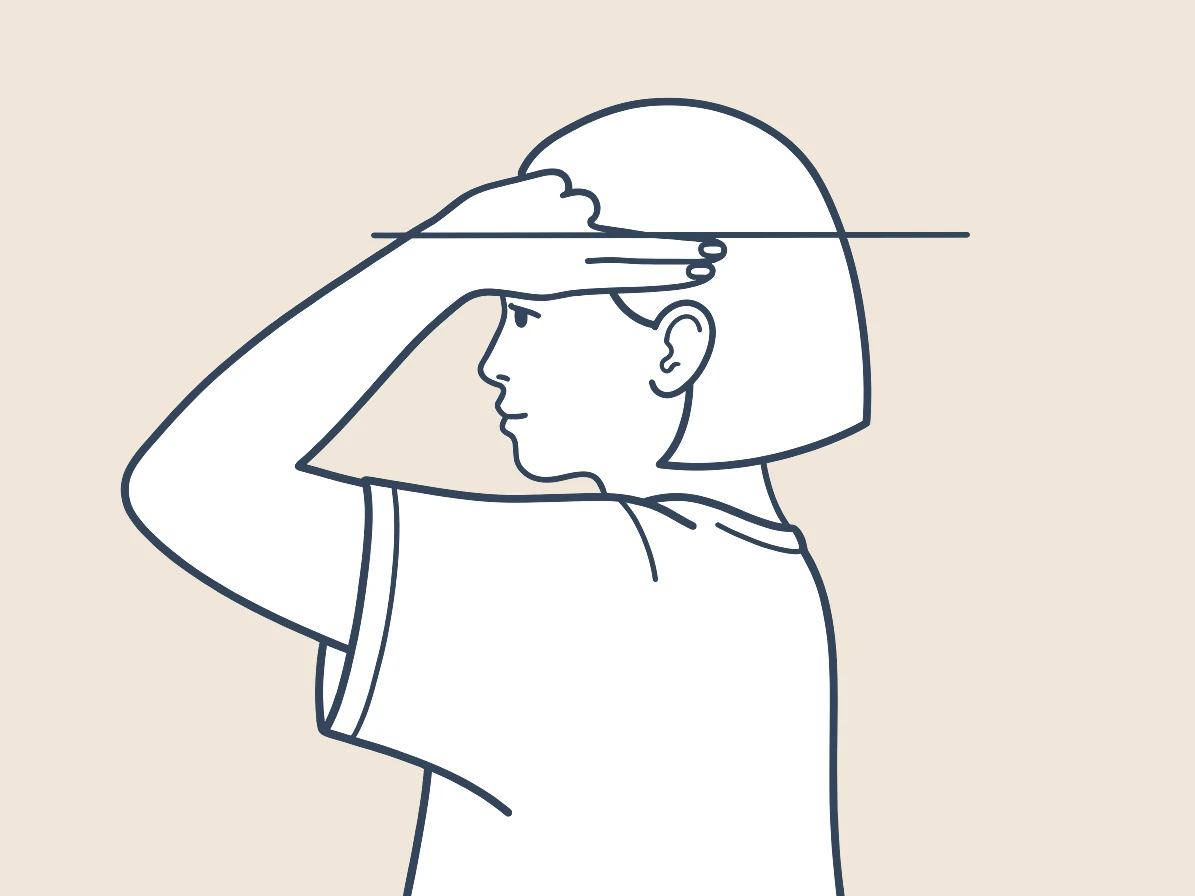
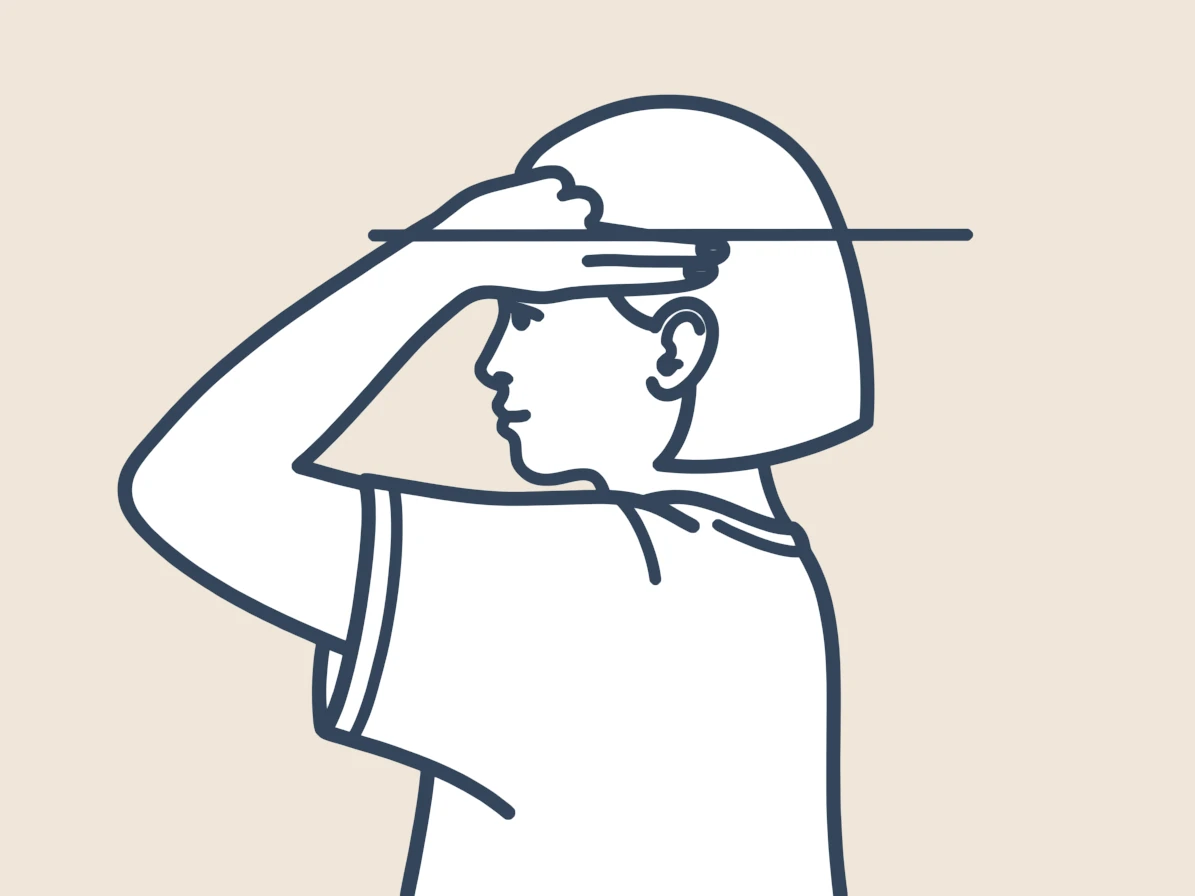
サイズの測り方：STEP01の線を太く、STEP02・03を同じタッチで描き直す
Claude-Session: https://claude.ai/code/session_01RH5cythh1fYRs7FUTgofhc

diff --git a/guide.html b/guide.html
@@ -151,7 +151,7 @@
           <li class="wash-step">
             <div class="wash-fig">
               <span class="wash-no">STEP 02</span>
-              <img src="assets/images/size/step2.svg" alt="横から見た人の頭。おでこから耳の上を通り、後頭部のいちばん出ているところまでメジャーをまわしている" width="400" height="300" loading="lazy">
+              <img src="assets/images/size/step2.svg" alt="横から見た人。おでこから耳の上を通り、後頭部のいちばん出ているところへ向かう、測る位置の線" width="400" height="300" loading="lazy">
             </div>
             <div class="wash-body">
               <h4>頭のまわりを一周させる</h4>
@@ -161,7 +161,7 @@
           <li class="wash-step">
             <div class="wash-fig">
               <span class="wash-no">STEP 03</span>
-              <img src="assets/images/size/step3.svg" alt="鏡に映った正面の人。おでこの中心でメジャーを重ねて目盛りを読んでいる" width="400" height="300" loading="lazy">
+              <img src="assets/images/size/step3.svg" alt="正面を向いた人が、片手でおでこの中心のメジャーを押さえ、もう片手で耳の後ろのメジャーを支えている" width="400" height="300" loading="lazy">
             </div>
             <div class="wash-body">
               <h4>鏡で目盛りを読む</h4>

diff --git a/CLAUDE.md b/CLAUDE.md
@@ -40,7 +40,7 @@
 - 並び：お手入れ（洗い方・写真つき）→ サイズ（測り方・画像つき）→ ラッピング → 送料
 - 左側の目次（スマホでは上に横並び）を押すと、その項目までスクロールする。いま見ている項目に印がつく
 - 洗い方：4つの手順（部分洗い／押し洗い・つけ置き／洗濯ネットで脱水／陰干し）＋保管方法。「STEP 01」などの番号はイラストの左上に赤で重ね、本文はイラストの横に置く（スマホでも横並び）。図は assets/images/wash/ のシンプルな線のイラスト（SVG）
-- サイズ：測り方（洗い方と同じ形の3ステップ。イラストは assets/images/size/ の人物の線画（STEP01 は作家が用意した絵をサイトの色に塗り直した step1.webp、STEP02・03 は SVG。洗い方と同じ色））→ 測るときの注意 → サイズの選び方（頭まわり＋1cmほどが目安。各商品の実寸は BASE で確認）。F・M・L の実寸の数字はサイトに書かない
+- サイズ：測り方（洗い方と同じ形の3ステップ。イラストは assets/images/size/ の人物の線画（STEP01 は作家が用意した絵をサイトの色に塗り直し線を太くした step1.webp、STEP02・03 は同じタッチの SVG（参考写真のポーズをもとに新しく描いたもの）。洗い方と同じ色））→ 測るときの注意 → サイズの選び方（頭まわり＋1cmほどが目安。各商品の実寸は BASE で確認）。F・M・L の実寸の数字はサイトに書かない
 
 ### アイテムのスライダー
 - 1枚に1商品。写真・商品名だけをのせる（素材はのせない）。価格はのせない（BASE で確認してもらう）
